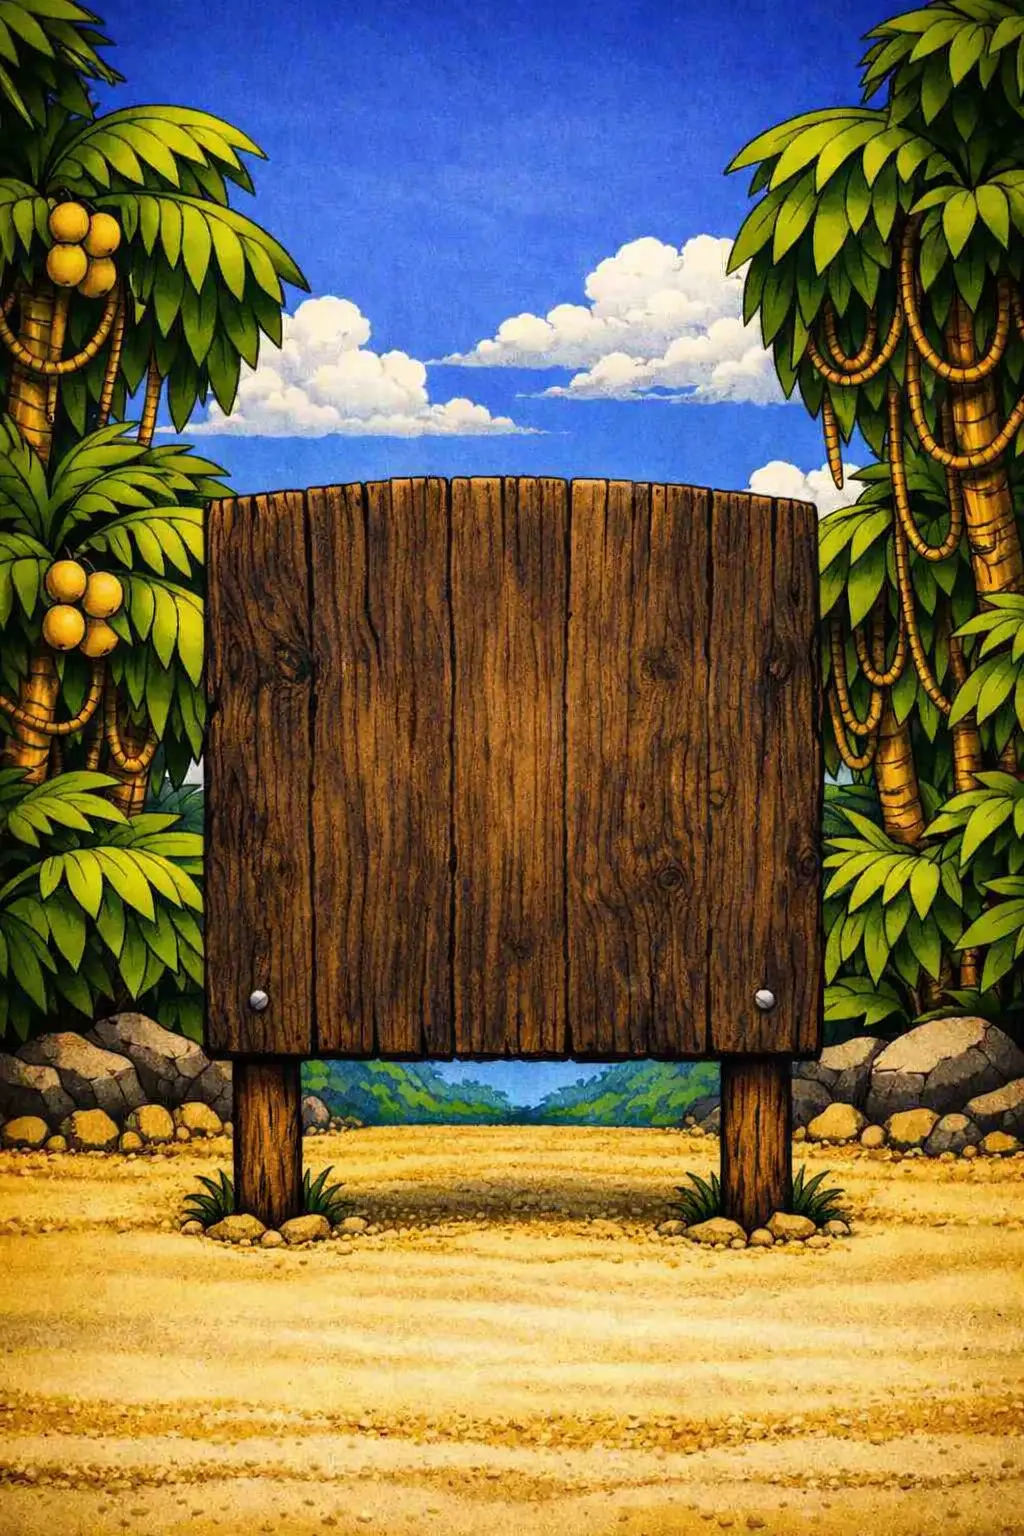
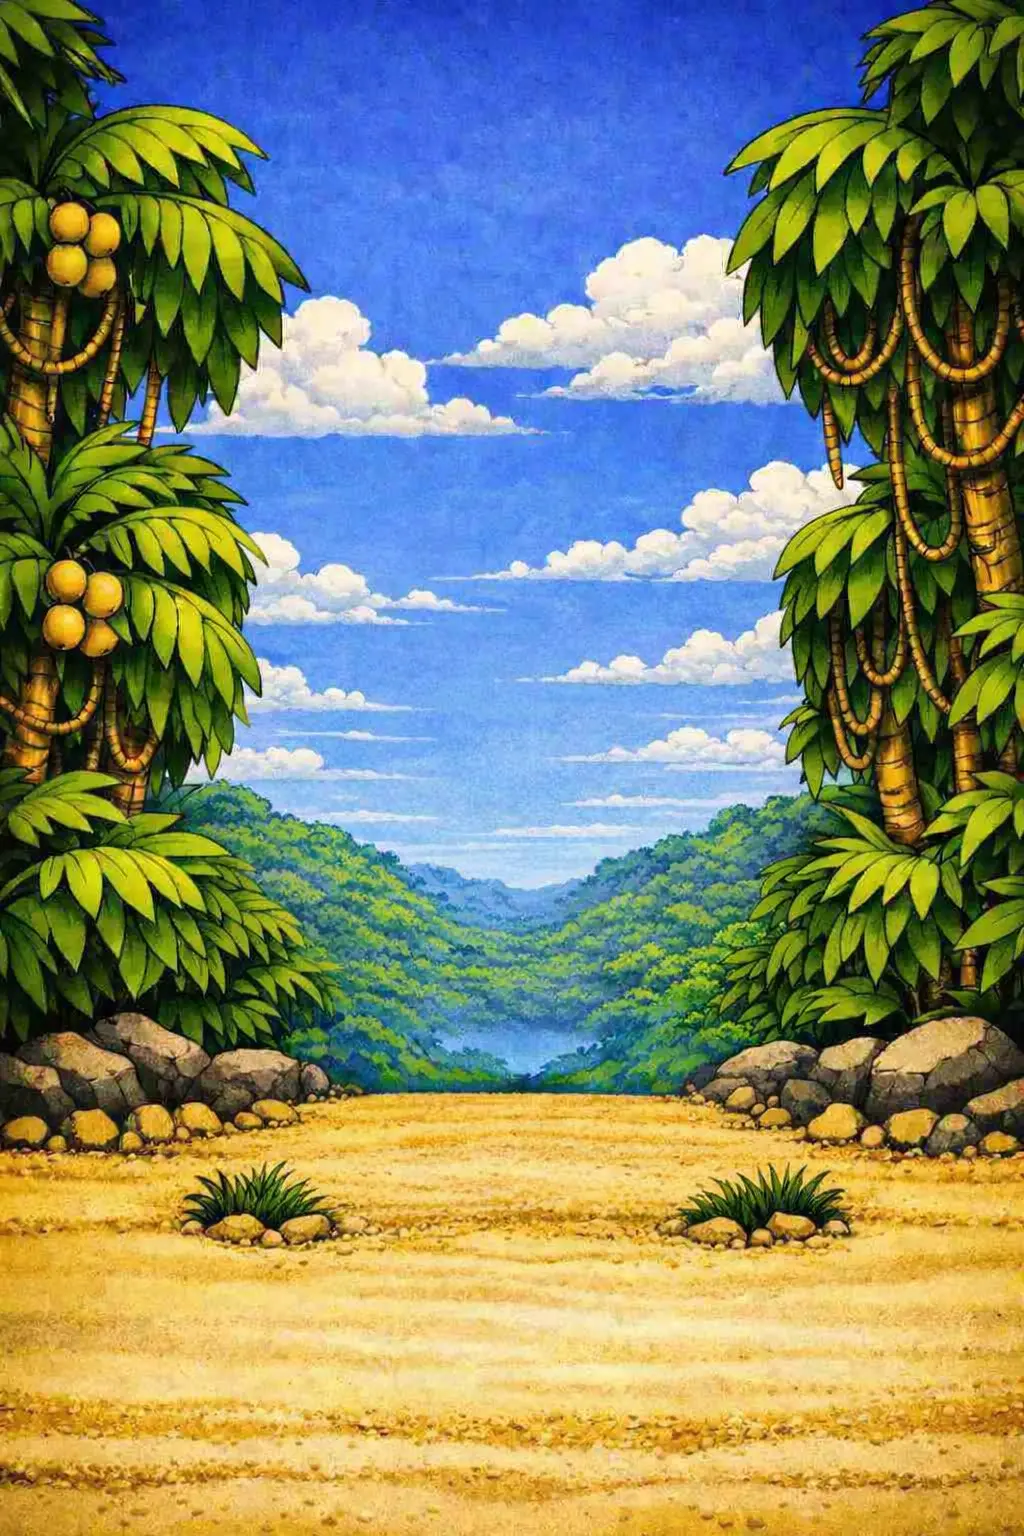
sistemato schermata introduttiva

diff --git a/src/components/Intro.tsx b/src/components/Intro.tsx
@@ -13,6 +13,11 @@ import giftAnimation from '../animations/gift-animation.json';
 
 //@ts-ignore
 import background from '../img/background.webp';
+//@ts-ignore
+import woodTexture from '../img/dark_wood.webp';
+
+//@ts-ignore
+import liana from '../img/liana.webp';
 
 const Intro = () => {
   const [showIntro, setShowIntro] = useState<boolean>(true);
@@ -73,45 +78,132 @@ const Intro = () => {
                   position: 'relative',
                 }}
               >
-                {/* Testo + bottone */}
-                <Stack sx={{ alignItems: 'center' }}>
-                  <Typography
-                    className="engraved"
+                <Box
+                  sx={{
+                    height: '50vh',
+                    display: 'flex',
+                    justifyContent: 'center',
+                    alignItems: 'flex-start',
+                  }}
+                >
+                  <Box
+                    className="swing"
                     sx={{
-                      fontSize: '21px',
-                      textAlign: 'center',
-                      marginTop: '270px',
-                      color: '#ededd5',
+                      position: 'relative',
+                      transformOrigin: 'top center',
+                      animation: 'gentleSwing 6s ease-in-out infinite',
+                      '@keyframes gentleSwing': {
+                        '0%': { transform: 'rotate(-2deg)' },
+                        '50%': { transform: 'rotate(2deg)' },
+                        '100%': { transform: 'rotate(-2deg)' },
+                      },
                     }}
                   >
-                    <span>Feliz cumpleaños</span>
-                    <br />
-                    <span>Martina!</span>
-                  </Typography>
-
-                  <Button
-                    onClick={() => setShowIntro(false)}
-                    sx={{
-                      boxShadow: '0px 4px 10px rgba(0,0,0,0.3)',
-                      mt: '20px',
-                      width: '220px',
-                      backgroundColor: '#ededd5',
-                    }}
-                  >
-                    <Typography color="#221a4d">SCARTA IL REGALO</Typography>
-                    <Lottie
-                      animationData={giftAnimation}
-                      loop
-                      autoplay
-                      style={{
-                        marginTop: '-15px',
-                        marginLeft: '10px',
-                        width: '60px',
-                        height: '60px',
+                    {/* Corda sinistra */}
+                    <Box
+                      sx={{
+                        width: '14px', // più spessa
+                        height: '90px',
+                        backgroundImage: `url(${liana})`,
+                        backgroundSize: 'cover',
+                        backgroundPosition: 'center',
+                        borderRadius: '999px',
+                        position: 'absolute',
+                        left: '22%',
+                        top: '-5px',
+                        boxShadow: '0 0 4px rgba(0,0,0,0.35)',
                       }}
                     />
-                  </Button>
-                </Stack>
+
+                    {/* Corda destra */}
+                    <Box
+                      sx={{
+                        width: '14px',
+                        height: '90px',
+                        backgroundImage: `url(${liana})`,
+                        backgroundSize: 'cover',
+                        backgroundPosition: 'center',
+                        borderRadius: '999px',
+                        position: 'absolute',
+                        right: '22%',
+                        top: '-5px',
+                        boxShadow: '0 0 4px rgba(0,0,0,0.35)',
+                      }}
+                    />
+
+                    {/* Cartello */}
+                    <Box
+                      sx={{
+                        mt: '80px',
+                        px: 4,
+                        py: 2,
+                        backgroundImage: `url(${woodTexture})`,
+                        backgroundSize: 'cover',
+                        backgroundPosition: 'center',
+                        borderRadius: '8px',
+                        boxShadow: `
+                        inset 0 2px 4px rgba(255,255,255,0.3),   /* luce sopra */
+                        inset 0 -3px 6px rgba(0,0,0,0.4),        /* ombra sotto */
+                        0 8px 20px rgba(0,0,0,0.25)              /* ombra esterna */
+                      `,
+                        border: '2px solid rgba(0,0,0,0.3)',
+                        fontSize: '1.4rem',
+                        fontWeight: 500,
+                        textAlign: 'center',
+                        transform: 'translateZ(0)',
+                        minHeight: '300px',
+                      }}
+                    >
+                      {/* Testo + bottone */}
+                      <Stack sx={{ alignItems: 'center' }}>
+                        <Typography
+                          className="engraved"
+                          sx={{
+                            fontSize: '21px',
+                            textAlign: 'center',
+                            marginTop: '40px',
+                            color: '#ededd5',
+                          }}
+                        >
+                          <span>Feliz cumpleaños</span>
+                          <br />
+                          <span>Martina!</span>
+                          <br />
+                          <br />
+                          <span>Ti va di scartare</span>
+                          <br />
+                          <span>un regalino?</span>
+                        </Typography>
+
+                        <Button
+                          onClick={() => setShowIntro(false)}
+                          sx={{
+                            boxShadow: '0px 4px 10px rgba(0,0,0,0.3)',
+                            width: '220px',
+                            backgroundColor: '#ededd5',
+                            bottom: '20px',
+                            position: 'absolute',
+                          }}
+                        >
+                          <Typography color="#221a4d">
+                            SCARTA IL REGALO
+                          </Typography>
+                          <Lottie
+                            animationData={giftAnimation}
+                            loop
+                            autoplay
+                            style={{
+                              marginTop: '-15px',
+                              marginLeft: '10px',
+                              width: '60px',
+                              height: '60px',
+                            }}
+                          />
+                        </Button>
+                      </Stack>
+                    </Box>
+                  </Box>
+                </Box>
 
                 {/* Tiger */}
                 <Lottie
@@ -119,7 +211,7 @@ const Intro = () => {
                   autoplay
                   style={{
                     zIndex: 2,
-                    width: '220px',
+                    width: '260px',
                     position: 'absolute',
                     bottom: '20px',
                     left: '50%',

diff --git a/src/components/CheckVerificationCode.tsx b/src/components/CheckVerificationCode.tsx
@@ -121,7 +121,7 @@ const CheckVerificationCode = () => {
           <Typography sx={{ fontSize: '16px' }}>
             Atenciónnn! Il codice è errato!
             <br />
-            C'è solo una persona che può scartare il regalo!
+            Solo una persona conosce il codice segreto!
           </Typography>
         </Alert>
       </Slide>
